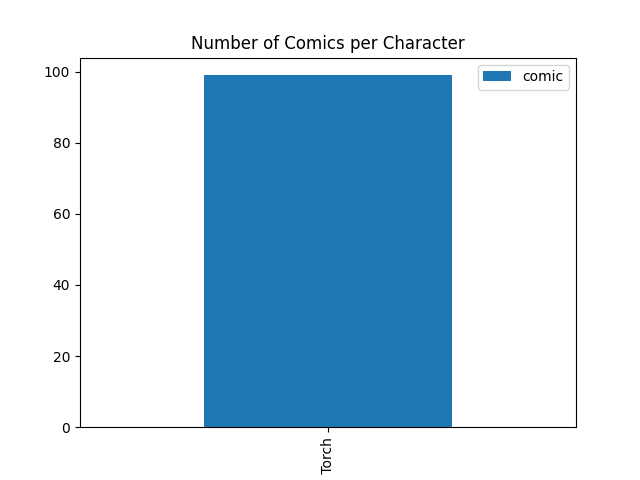
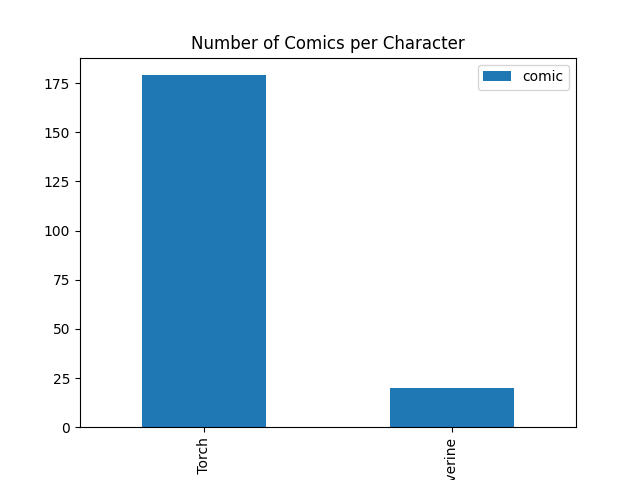
feat: added more data and cleaned up scripts a bit

diff --git a/fetch_heroes.py b/fetch_heroes.py
@@ -13,9 +13,9 @@ public_key = "dda446b2e1c24ad15b95764453ea581f"
 private_key = "981b3c906e07a0d1f4acf631bf103087b13099c6"
 x = Marvel(public_key, private_key)
 
-row = x.fetch_characters('Human Torch', 20)
+row = x.fetch_characters('Wolverine', 20)
 print("Comic Character: ", row)
 
 # write to a file
-with open('marvel.json', 'a') as f:
+with open('marvel.json', 'w') as f:
     json.dump(row, f)
